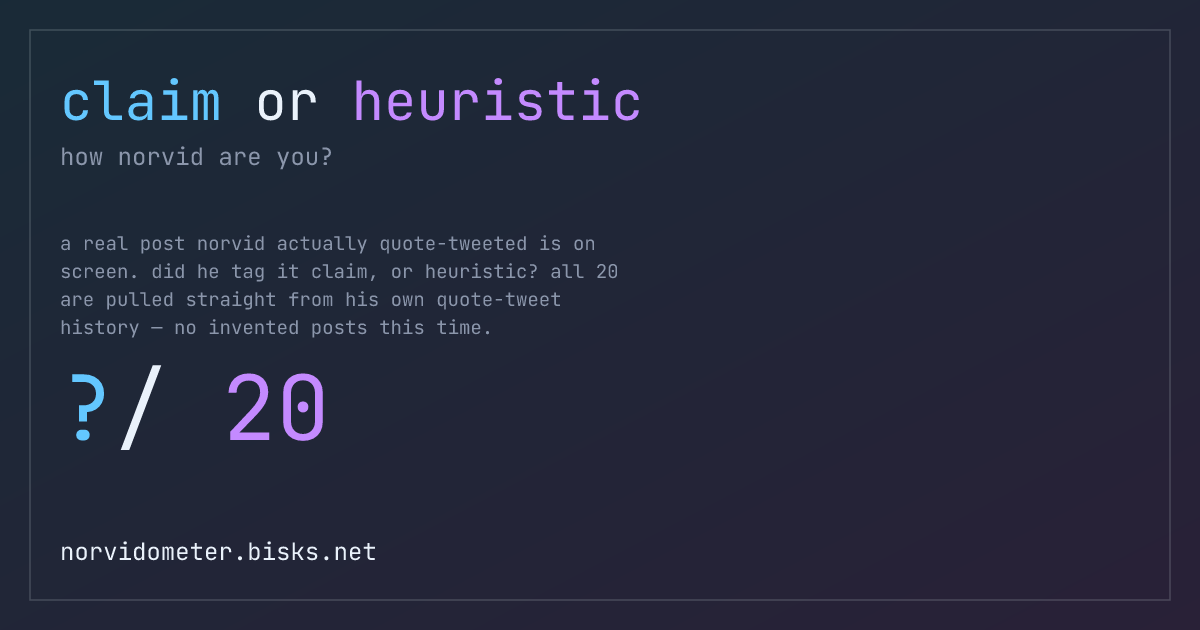
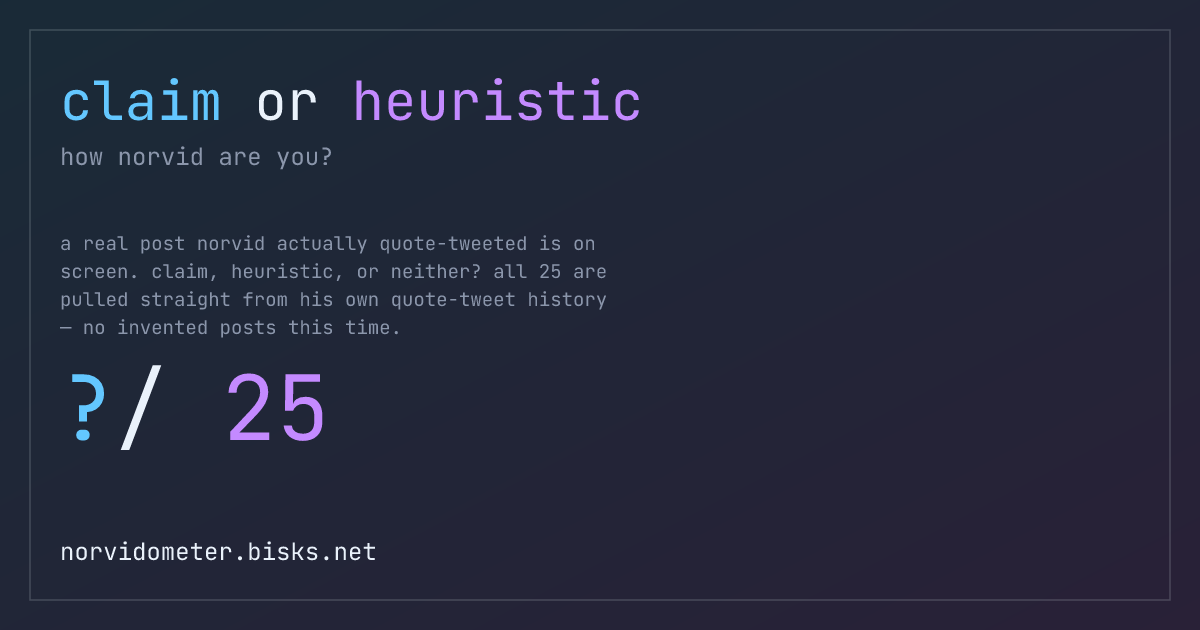
buildthis: norvidometer (@gracekind.net)

Changed region(s): [[0.0308, 0.4222, 0.5242, 0.5429], [0.2158, 0.6032, 0.2775, 0.6937]]

diff --git a/sites/norvidometer/public/lib/posts.js b/sites/norvidometer/public/lib/posts.js
@@ -10,12 +10,23 @@
 // (com.atproto.sync.getRepo, via sites/backscroll's car.js — see the standing
 // bulk-read order in notes/), kept every quote-post whose OWN commentary text
 // contains 'claim' or 'heuristic', then fetched the quoted post underneath to
-// use as the quiz prompt. Out of 57,959 posts, 13,397 were quote-posts, and 663
+// use as the quiz prompt. Out of 57,977 posts, 13,407 were quote-posts, and 640
 // of those were tagged 'claim' or 'heuristic' by norvid himself — turns out this
 // is a real, extremely long-running habit of his: quote something, then reply
-// with the single bare word as a genre marker (336 'claim', 128 'heuristic',
-// out of the 663). `answer` and `note` below are his real label and his real
-// QT text, not our guess — `permalink`/`norvidPermalink` link to both real posts.
+// with the single bare word as a genre marker. `answer` and `note` below are
+// his real label and his real QT text, not our guess — `permalink`/
+// `norvidPermalink` link to both real posts.
+//
+// The last 5 entries (answer: "neither") are @gracekind.net's control group,
+// added after they asked, replying to the "search his real history" thread:
+// "can you also mix in other quoted tweets that were neither claim nor
+// heuristic, as a control?" Same repo, same method — real QTs where norvid's
+// own one-or-few-word genre tag was something else entirely ("lifehack",
+// "til", "daily affirmations", "lol"), not a claim/heuristic mislabel. The
+// point: if flanderized "heuristic" swallows everything rule-of-thumb-shaped,
+// a control that's obviously neither should still get correctly recognized as
+// neither — forcing one anyway is itself a data point about the quiz-taker,
+// not just norvid.
 export const POSTS = [
   {
     text: "My rule of thumb: If it stresses me out, I switch to human-paced activity for a while.",
@@ -176,5 +187,45 @@ export const POSTS = [
     permalink: "https://bsky.app/profile/eikopf.com/post/3meyr4a6spc26",
     norvidPermalink: "https://bsky.app/profile/norvid-studies.bsky.social/post/3mezffzsrm22z",
     note: "norvid's real quote-tweet said exactly one word: “heuristic” — that's his whole genre tag.",
+  },
+  {
+    text: "kids never do acid and read windows internals",
+    author: "sichulu.bsky.social",
+    answer: "neither",
+    permalink: "https://bsky.app/profile/sichulu.bsky.social/post/3lbst43rmu22q",
+    norvidPermalink: "https://bsky.app/profile/norvid-studies.bsky.social/post/3lbsuaqlmss2y",
+    note: "control: norvid's real quote-tweet said exactly one word: “lifehack” — not claim, not heuristic.",
+  },
+  {
+    text: "Yeah, never write reviews because I am skeptical they'll be of use to others, but I should really write reviews just for myself given my terrible memory.",
+    author: "timfduffy.com",
+    answer: "neither",
+    permalink: "https://bsky.app/profile/timfduffy.com/post/3ld55mgwk522b",
+    norvidPermalink: "https://bsky.app/profile/norvid-studies.bsky.social/post/3ld55sxba4k22",
+    note: "control: norvid's real quote-tweet said exactly one word: “lifehack” — not claim, not heuristic.",
+  },
+  {
+    text: "In chrome, to generate text fragment links automatically, you can select some text, right click and select \"copy link to highlight.\" This is vastly preferable to screenshotting text if you want to highlight a particular passage (when you post on a website that doesn't hide links like this one.)",
+    author: "moultano.bsky.social",
+    answer: "neither",
+    permalink: "https://bsky.app/profile/moultano.bsky.social/post/3laouejqgoc23",
+    norvidPermalink: "https://bsky.app/profile/norvid-studies.bsky.social/post/3laovcc3krk2t",
+    note: "control: norvid's real quote-tweet said exactly one word: “til” — not claim, not heuristic.",
+  },
+  {
+    text: "it is wise to remember that your brain is the texture of tofu",
+    author: "tbabb.bsky.social",
+    answer: "neither",
+    permalink: "https://bsky.app/profile/tbabb.bsky.social/post/3lburzsinus2e",
+    norvidPermalink: "https://bsky.app/profile/norvid-studies.bsky.social/post/3lbusdr43rs2y",
+    note: "control: norvid's real quote-tweet said “daily affirmations” — not claim, not heuristic.",
+  },
+  {
+    text: "\"Memoryholed by Recep Tayyip Erdoğan\"",
+    author: "godoglyness.bsky.social",
+    answer: "neither",
+    permalink: "https://bsky.app/profile/godoglyness.bsky.social/post/3larhsug6rc2e",
+    norvidPermalink: "https://bsky.app/profile/norvid-studies.bsky.social/post/3larhtg4ks22t",
+    note: "control: norvid's real quote-tweet said exactly one word: “lol” — not claim, not heuristic.",
   },
 ];

diff --git a/sites/norvidometer/public/index.html b/sites/norvidometer/public/index.html
@@ -119,7 +119,7 @@
   .context-line a { color: var(--cool); }
   .grid {
     display: grid;
-    grid-template-columns: 1fr 1fr;
+    grid-template-columns: 1fr 1fr 1fr;
     gap: 10px;
     margin-top: 16px;
   }
@@ -129,17 +129,18 @@
     border: 1px solid var(--border);
     color: var(--ink);
     border-radius: 9px;
-    padding: 16px 10px;
+    padding: 16px 8px;
     font-family: inherit;
-    font-size: 15px;
+    font-size: 14px;
     font-weight: 700;
     text-transform: uppercase;
-    letter-spacing: 0.04em;
+    letter-spacing: 0.03em;
     cursor: pointer;
     line-height: 1.3;
   }
   button.opt.claim { border-color: rgba(99, 199, 255, 0.3); }
   button.opt.heuristic { border-color: rgba(196, 138, 255, 0.3); }
+  button.opt.neither { border-color: rgba(139, 150, 171, 0.35); }
   button.opt:disabled { cursor: default; }
   button.opt.correct { background: rgba(89, 211, 140, 0.18); border-color: var(--good); }
   button.opt.wrong { background: rgba(255, 107, 107, 0.18); border-color: var(--bad); }
@@ -186,18 +187,21 @@
   @media (max-width: 420px) {
     .grid { grid-template-columns: 1fr; }
   }
+  @media (min-width: 421px) and (max-width: 520px) {
+    .grid { grid-template-columns: 1fr 1fr; }
+  }
 </style>
 </head>
 <body>
 <div class="wrap">
   <header>
     <h1><span class="lo">claim</span> or <span class="hi">heuristic</span></h1>
-    <p class="tagline">a real post from @norvid-studies.bsky.social's own quote-tweet history is on screen. did he tag it claim, or heuristic? ends by scoring how norvid you are.</p>
+    <p class="tagline">a real post from @norvid-studies.bsky.social's own quote-tweet history is on screen. did he tag it claim, heuristic, or neither? ends by scoring how norvid you are.</p>
   </header>
 
   <div class="panel" id="start">
     <div class="rules">
-      Straight from a real @norvid-studies.bsky.social thread, where he tried to explain what he means by "heuristic" and ran into a problem: he wasn't totally sure it's different from a "claim" either. Below are 20 real posts he's actually quote-tweeted, tagged "claim" or "heuristic" — by him, not us. Guess which.
+      Straight from a real @norvid-studies.bsky.social thread, where he tried to explain what he means by "heuristic" and ran into a problem: he wasn't totally sure it's different from a "claim" either. Below are 25 real posts he's actually quote-tweeted — 20 tagged "claim" or "heuristic" by him, and 5 controls he tagged something else entirely ("lifehack", "til", "lol"...), which are neither. Guess which of the three it really was.
     </div>
     <div class="quote">
       "what I originally meant was like, 'stylized fact and or tool for thinking'... then with long usage its undergone a bit of high dimensional flanderization... I think I basically mean rule of thumb. or I don't see what the difference is."
@@ -207,7 +211,7 @@
   </div>
 
   <div class="panel" id="quiz">
-    <div class="progress"><span id="qNum">1 / 20</span><span id="qScore">0 matched</span></div>
+    <div class="progress"><span id="qNum">1 / 25</span><span id="qScore">0 matched</span></div>
     <div class="quote-card" id="postText"></div>
     <div class="context-line" id="contextLine"></div>
     <div class="grid" id="optGrid"></div>
@@ -228,7 +232,8 @@
   </div>
 
   <p class="disclaimer">
-    all 20 posts are real quote-tweets pulled straight from @norvid-studies.bsky.social's own repo — 663 of his QTs are tagged "claim" or "heuristic" by him, and these are 20 of them. that's what
+    all 25 posts are real quote-tweets pulled straight from @norvid-studies.bsky.social's own repo — 640 of his QTs are tagged "claim" or "heuristic" by him, and 20 of these 25 are drawn from that set. the other 5 are a control @gracekind.net asked for: real QTs he tagged something else entirely ("lifehack", "til", "daily affirmations", "lol"), mixed in as "neither."
+    the "claim"/"heuristic" half is what
     <a href="https://bsky.app/profile/ver.ooo" target="_blank" rel="noopener">@ver.ooo</a>
     asked for the first time around; v1 invented the posts instead and got fairly called a "grounding issue" by norvid himself, so this rebuild actually searches his real history.
     built off his thread with @gracekind.net, by <a href="https://buildthis.bisks.net">@buildthis.bisks.net</a>.

diff --git a/sites/norvidometer/public/lib/quiz.js b/sites/norvidometer/public/lib/quiz.js
@@ -34,6 +34,9 @@ const els = {
 let order = [];
 let idx = 0;
 let score = 0;
+let controlTotal = 0;
+let controlCorrect = 0;
+let forcedControls = 0;
 let answered = false;
 
 function renderQuestion() {
@@ -51,6 +54,10 @@ function renderQuestion() {
     answered = true;
     const correct = pickedAnswer === q.answer;
     if (correct) score++;
+    if (q.answer === "neither") {
+      if (correct) controlCorrect++;
+      else if (pickedAnswer === "claim" || pickedAnswer === "heuristic") forcedControls++;
+    }
     const sourceLinks =
       '<a href="' + q.permalink + '" target="_blank" rel="noopener">real post, by @' + q.author + "</a> · " +
       '<a href="' + q.norvidPermalink + '" target="_blank" rel="noopener">norvid\'s actual QT</a>';
@@ -65,7 +72,7 @@ function renderQuestion() {
     els.nextWrap.style.display = "block";
   };
 
-  for (const opt of ["claim", "heuristic"]) {
+  for (const opt of ["claim", "heuristic", "neither"]) {
     const btn = document.createElement("button");
     btn.className = "opt " + opt;
     btn.dataset.answer = opt;
@@ -90,7 +97,7 @@ function shareUrlFor() {
 
 function shareTextFor(score, total, tier) {
   return (
-    score + "/" + total + " on the norvidometer — \"" + tier + "\". guess how norvid tagged 20 real quote-tweets from his own timeline. " +
+    score + "/" + total + " on the norvidometer — \"" + tier + "\". guess how norvid tagged " + total + " real quote-tweets from his own timeline (some are controls — neither). " +
     shareUrlFor()
   );
 }
@@ -175,7 +182,14 @@ function showResult() {
   const tier = tierFor(score, total);
   els.resultTitle.textContent = tier;
   els.resultScore.textContent = score + " / " + total;
-  els.resultSub.textContent = "every one of those was a real quote-tweet norvid actually tagged himself — no invented posts this time.";
+  let sub = "every one of those was a real quote-tweet norvid actually tagged himself — no invented posts this time.";
+  if (controlTotal > 0) {
+    sub += " " + controlCorrect + "/" + controlTotal + " controls correctly spotted as neither.";
+    if (forcedControls > 0) {
+      sub += " you flanderized " + forcedControls + " of them into claim or heuristic anyway.";
+    }
+  }
+  els.resultSub.textContent = sub;
 
   drawResultCard(score, total, tier);
 
@@ -207,6 +221,9 @@ function start() {
   order = shuffle(POSTS);
   idx = 0;
   score = 0;
+  controlTotal = order.filter((q) => q.answer === "neither").length;
+  controlCorrect = 0;
+  forcedControls = 0;
   els.start.style.display = "none";
   els.result.style.display = "none";
   els.quiz.style.display = "block";

diff --git a/apex/public/index.html b/apex/public/index.html
@@ -2643,7 +2643,7 @@
         <a class="card" href="https://norvidometer.bisks.net/" data-site="norvidometer" data-by="ver.ooo" data-type="game" data-src="bot">
           <h2>norvidometer <span class="tag">quiz</span></h2>
           <p>
-            a quiz: a real post norvid actually quote-tweeted is on screen, did he tag it 'claim' or 'heuristic'? v1 invented the posts and norvid called it a grounding issue, so this rebuild pulls all 20 straight from his own repo. ends by scoring how norvid you are. asked for by @ver.ooo.
+            a quiz: a real post norvid actually quote-tweeted is on screen, did he tag it 'claim', 'heuristic', or neither? v1 invented the posts and norvid called it a grounding issue, so this pulls all 25 (5 of them controls) straight from his own repo. ends by scoring how norvid you are. asked for by @ver.ooo and @gracekind.net.
           </p>
         </a>
         <a class="card" href="https://notasexthing.bisks.net/" data-site="notasexthing" data-by="norvid-studies.bsky.social" data-type="toy" data-src="bot">
